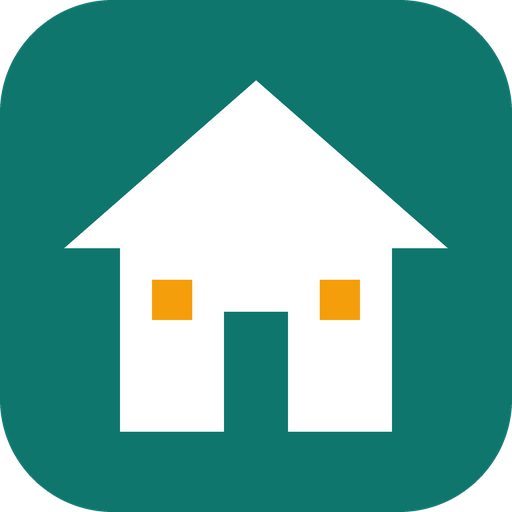
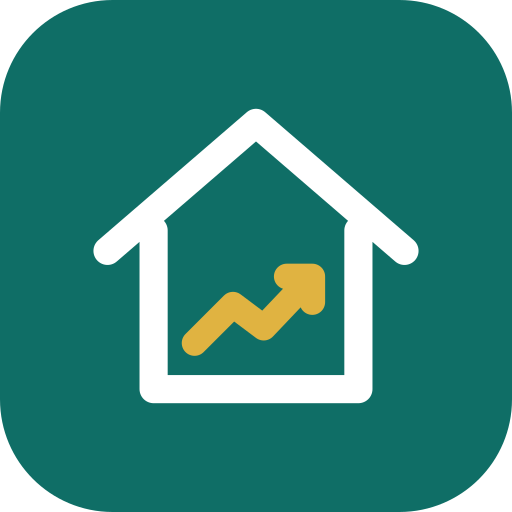
介面改版 2：線條圖示與新 App 圖示
- 比照投資帳本：js/icons.js 打包用到的 Lucide 線條圖示（ISC，授權見 js/icons-LICENSE.txt），
  顯示時把 emoji 換成跟文字同色的 SVG；原始文字、匯出檔不變
- 新增房子、鑰匙、手拿錢幣、溫度計、新芽、行政區定位等房屋試算用到的圖示
- 新 App 圖示（墨青線條）：192、512、maskable 512、Apple 180，另加 SVG 網頁小圖示
- service worker 快取換新名稱，讓舊圖示清掉

Claude-Session: https://claude.ai/code/session_015aXraEf23WDfRmWqChLCr5

Changed region(s): [[0.125, 0.1562, 0.875, 0.8438]]

diff --git a/js/icons.js b/js/icons.js
@@ -1,0 +1,70 @@
+// 房屋試算｜線條圖示（介面改版 PR 2，比照投資帳本）
+// 圖示來自 Lucide（https://lucide.dev，ISC 授權，授權全文見 js/icons-LICENSE.txt）；tick 是投資帳本自己畫的對帳勾。
+// 只打包用到的圖示，離線也能用。ic('名字') 回傳行內 SVG；跟文字同色（currentColor）。
+// 程式和 HTML 裡照樣寫 emoji，顯示時才換成線條圖示：原始文字、匯出檔都不變。
+// 不處理：textarea、pre、code、script、style、可編輯區、.noic；下拉選單（option）放不了圖示，只拿掉 emoji。
+// 狀態類（勾、禁止、警告…）在一般文字裡會帶顏色；放在本來就有顏色的地方（例如提示框）就跟著那個顏色。
+const ICP={
+"ban": "<circle cx=\"12\" cy=\"12\" r=\"10\"/><path d=\"M4.929 4.929 19.07 19.071\"/>",
+"banknote": "<rect width=\"20\" height=\"12\" x=\"2\" y=\"6\" rx=\"2\"/><circle cx=\"12\" cy=\"12\" r=\"2\"/><path d=\"M6 12h.01M18 12h.01\"/>",
+"book-open": "<path d=\"M12 5v16\"/><path d=\"M20.001 19A2 2 0 0022 17V5a2 2 0 00-1.999-2L16 3.002A5 5 0 0012 5a5 5 0 00-4-2H4a2 2 0 00-2 2v12a2 2 0 001.999 2H8a5 5 0 014 2 5 5 0 014-2z\"/>",
+"calendar": "<path d=\"M8 2v3\"/><path d=\"M16 2v3\"/><rect x=\"3\" y=\"3\" width=\"18\" height=\"18\" rx=\"2\"/><path d=\"M3 9h18\"/>",
+"calendar-range": "<rect x=\"3\" y=\"3\" width=\"18\" height=\"18\" rx=\"2\"/><path d=\"M16 2v3\"/><path d=\"M3 9h18\"/><path d=\"M8 2v3\"/><path d=\"M17 13h-6\"/><path d=\"M13 17H7\"/><path d=\"M7 13h.01\"/><path d=\"M17 17h.01\"/>",
+"chart-line": "<path d=\"M3 3v16a2 2 0 0 0 2 2h16\"/><path d=\"m19 9-5 5-4-4-3 3\"/>",
+"clipboard-list": "<rect width=\"8\" height=\"4\" x=\"8\" y=\"2\" rx=\"1\" ry=\"1\"/><path d=\"M16 4h2a2 2 0 0 1 2 2v14a2 2 0 0 1-2 2H6a2 2 0 0 1-2-2V6a2 2 0 0 1 2-2h2\"/><path d=\"M12 11h4\"/><path d=\"M12 16h4\"/><path d=\"M8 11h.01\"/><path d=\"M8 16h.01\"/>",
+"coins": "<path d=\"M13.744 17.736a6 6 0 1 1-7.48-7.48\"/><path d=\"M15 6h1v4\"/><path d=\"m6.134 14.768.866-.5 2 3.464\"/><circle cx=\"16\" cy=\"8\" r=\"6\"/>",
+"download": "<path d=\"M12 15V3\"/><path d=\"M21 15v4a2 2 0 0 1-2 2H5a2 2 0 0 1-2-2v-4\"/><path d=\"m7 10 5 5 5-5\"/>",
+"hand-coins": "<path d=\"M11 15h2a2 2 0 1 0 0-4h-3c-.6 0-1.1.2-1.4.6L3 17\"/><path d=\"m7 21 1.6-1.4c.3-.4.8-.6 1.4-.6h4c1.1 0 2.1-.4 2.8-1.2l4.6-4.4a2 2 0 0 0-2.75-2.91l-4.2 3.9\"/><path d=\"m2 16 6 6\"/><circle cx=\"16\" cy=\"9\" r=\"2.9\"/><circle cx=\"6\" cy=\"5\" r=\"3\"/>",
+"hourglass": "<path d=\"M5 22h14\"/><path d=\"M5 2h14\"/><path d=\"M17 22v-4.172a2 2 0 0 0-.586-1.414L12 12l-4.414 4.414A2 2 0 0 0 7 17.828V22\"/><path d=\"M7 2v4.172a2 2 0 0 0 .586 1.414L12 12l4.414-4.414A2 2 0 0 0 17 6.172V2\"/>",
+"house": "<path d=\"M15 21v-8a1 1 0 0 0-1-1h-4a1 1 0 0 0-1 1v8\"/><path d=\"M3 10a2 2 0 0 1 .709-1.528l7-6a2 2 0 0 1 2.582 0l7 6A2 2 0 0 1 21 10v9a2 2 0 0 1-2 2H5a2 2 0 0 1-2-2z\"/>",
+"info": "<circle cx=\"12\" cy=\"12\" r=\"10\"/><path d=\"M12 16v-4\"/><path d=\"M12 8h.01\"/>",
+"key-round": "<path d=\"M2.586 17.414A2 2 0 0 0 2 18.828V21a1 1 0 0 0 1 1h3a1 1 0 0 0 1-1v-1a1 1 0 0 1 1-1h1a1 1 0 0 0 1-1v-1a1 1 0 0 1 1-1h.172a2 2 0 0 0 1.414-.586l.814-.814a6.5 6.5 0 1 0-4-4z\"/><circle cx=\"16.5\" cy=\"7.5\" r=\".5\" fill=\"currentColor\"/>",
+"landmark": "<path d=\"M10 18v-7\"/><path d=\"M11.119 2.205a2 2 0 0 1 1.762 0l7.84 3.846A.5.5 0 0 1 20.5 7h-17a.5.5 0 0 1-.22-.949z\"/><path d=\"M14 18v-7\"/><path d=\"M18 18v-7\"/><path d=\"M3 22h18\"/><path d=\"M6 18v-7\"/>",
+"library": "<path d=\"m16 6 4 14\"/><path d=\"M12 6v14\"/><path d=\"M8 8v12\"/><path d=\"M4 4v16\"/>",
+"map-pin-house": "<path d=\"M15 22a1 1 0 0 1-1-1v-4a1 1 0 0 1 .445-.832l3-2a1 1 0 0 1 1.11 0l3 2A1 1 0 0 1 22 17v4a1 1 0 0 1-1 1z\"/><path d=\"M18 10a8 8 0 0 0-16 0c0 4.993 5.539 10.193 7.399 11.799a1 1 0 0 0 .601.2\"/><path d=\"M18 22v-3\"/><circle cx=\"10\" cy=\"10\" r=\"3\"/>",
+"notebook-pen": "<path d=\"M13.4 2H6a2 2 0 0 0-2 2v16a2 2 0 0 0 2 2h12a2 2 0 0 0 2-2v-7.4\"/><path d=\"M2 6h4\"/><path d=\"M2 10h4\"/><path d=\"M2 14h4\"/><path d=\"M2 18h4\"/><path d=\"M21.378 5.626a1 1 0 1 0-3.004-3.004l-5.01 5.012a2 2 0 0 0-.506.854l-.837 2.87a.5.5 0 0 0 .62.62l2.87-.837a2 2 0 0 0 .854-.506z\"/>",
+"pin": "<path d=\"M12 17v5\"/><path d=\"M9 10.76a2 2 0 0 1-1.11 1.79l-1.78.9A2 2 0 0 0 5 15.24V16a1 1 0 0 0 1 1h12a1 1 0 0 0 1-1v-.76a2 2 0 0 0-1.11-1.79l-1.78-.9A2 2 0 0 1 15 10.76V7a1 1 0 0 1 1-1 2 2 0 0 0 0-4H8a2 2 0 0 0 0 4 1 1 0 0 1 1 1z\"/>",
+"receipt": "<path d=\"M12 17V7\"/><path d=\"M16 8h-6a2 2 0 0 0 0 4h4a2 2 0 0 1 0 4H8\"/><path d=\"M4 3a1 1 0 0 1 1-1 1.3 1.3 0 0 1 .7.2l.933.6a1.3 1.3 0 0 0 1.4 0l.934-.6a1.3 1.3 0 0 1 1.4 0l.933.6a1.3 1.3 0 0 0 1.4 0l.933-.6a1.3 1.3 0 0 1 1.4 0l.934.6a1.3 1.3 0 0 0 1.4 0l.933-.6A1.3 1.3 0 0 1 19 2a1 1 0 0 1 1 1v18a1 1 0 0 1-1 1 1.3 1.3 0 0 1-.7-.2l-.933-.6a1.3 1.3 0 0 0-1.4 0l-.934.6a1.3 1.3 0 0 1-1.4 0l-.933-.6a1.3 1.3 0 0 0-1.4 0l-.933.6a1.3 1.3 0 0 1-1.4 0l-.934-.6a1.3 1.3 0 0 0-1.4 0l-.933.6a1.3 1.3 0 0 1-.7.2 1 1 0 0 1-1-1z\"/>",
+"repeat": "<path d=\"m17 2 4 4-4 4\"/><path d=\"M3 11v-1a4 4 0 0 1 4-4h14\"/><path d=\"m7 22-4-4 4-4\"/><path d=\"M21 13v1a4 4 0 0 1-4 4H3\"/>",
+"rocket": "<path d=\"M12 15v5s3.03-.55 4-2c1.08-1.62 0-5 0-5\"/><path d=\"M4.5 16.5c-1.5 1.26-2 5-2 5s3.74-.5 5-2c.71-.84.7-2.13-.09-2.91a2.18 2.18 0 0 0-2.91-.09\"/><path d=\"M9 12a22 22 0 0 1 2-3.95A12.88 12.88 0 0 1 22 2c0 2.72-.78 7.5-6 11a22.4 22.4 0 0 1-4 2z\"/><path d=\"M9 12H4s.55-3.03 2-4c1.62-1.08 5 .05 5 .05\"/>",
+"rotate-ccw": "<path d=\"M3 12a9 9 0 1 0 9-9 9.75 9.75 0 0 0-6.74 2.74L3 8\"/><path d=\"M3 3v5h5\"/>",
+"ruler": "<path d=\"M21.3 15.3a2.4 2.4 0 0 1 0 3.4l-2.6 2.6a2.4 2.4 0 0 1-3.4 0L2.7 8.7a2.41 2.41 0 0 1 0-3.4l2.6-2.6a2.41 2.41 0 0 1 3.4 0Z\"/><path d=\"m14.5 12.5 2-2\"/><path d=\"m11.5 9.5 2-2\"/><path d=\"m8.5 6.5 2-2\"/><path d=\"m17.5 15.5 2-2\"/>",
+"save": "<path d=\"M15.2 3a2 2 0 0 1 1.4.6l3.8 3.8a2 2 0 0 1 .6 1.4V19a2 2 0 0 1-2 2H5a2 2 0 0 1-2-2V5a2 2 0 0 1 2-2z\"/><path d=\"M17 21v-7a1 1 0 0 0-1-1H8a1 1 0 0 0-1 1v7\"/><path d=\"M7 3v4a1 1 0 0 0 1 1h7\"/>",
+"settings": "<path d=\"M9.671 4.136a2.34 2.34 0 0 1 4.659 0 2.34 2.34 0 0 0 3.319 1.915 2.34 2.34 0 0 1 2.33 4.033 2.34 2.34 0 0 0 0 3.831 2.34 2.34 0 0 1-2.33 4.033 2.34 2.34 0 0 0-3.319 1.915 2.34 2.34 0 0 1-4.659 0 2.34 2.34 0 0 0-3.32-1.915 2.34 2.34 0 0 1-2.33-4.033 2.34 2.34 0 0 0 0-3.831A2.34 2.34 0 0 1 6.35 6.051a2.34 2.34 0 0 0 3.319-1.915\"/><circle cx=\"12\" cy=\"12\" r=\"3\"/>",
+"sprout": "<path d=\"M14 9.536V7a4 4 0 0 1 4-4h1.5a.5.5 0 0 1 .5.5V5a4 4 0 0 1-4 4 4 4 0 0 0-4 4c0 2 1 3 1 5a5 5 0 0 1-1 3\"/><path d=\"M4 9a5 5 0 0 1 8 4 5 5 0 0 1-8-4\"/><path d=\"M5 21h14\"/>",
+"tag": "<path d=\"M12.586 2.586A2 2 0 0 0 11.172 2H4a2 2 0 0 0-2 2v7.172a2 2 0 0 0 .586 1.414l8.704 8.704a2.426 2.426 0 0 0 3.42 0l6.58-6.58a2.426 2.426 0 0 0 0-3.42z\"/><circle cx=\"7.5\" cy=\"7.5\" r=\".5\" fill=\"currentColor\"/>",
+"thermometer": "<path d=\"M14 4v10.54a4 4 0 1 1-4 0V4a2 2 0 0 1 4 0Z\"/>",
+"tick": "<path d=\"M3.6 12.9c1.6.7 3.1 2.1 4.8 4.4 3.3-5.3 7-9.3 12-12.6\"/>",
+"trash": "<path d=\"M10 11v6\"/><path d=\"M14 11v6\"/><path d=\"M19 6v14a2 2 0 0 1-2 2H7a2 2 0 0 1-2-2V6\"/><path d=\"M3 6h18\"/><path d=\"M8 6V4a2 2 0 0 1 2-2h4a2 2 0 0 1 2 2v2\"/>",
+"triangle-exclamation-point": "<path d=\"m21.73 18-8-14a2 2 0 0 0-3.48 0l-8 14A2 2 0 0 0 4 21h16a2 2 0 0 0 1.73-3\"/><path d=\"M12 9v4\"/><path d=\"M12 17h.01\"/>",
+"upload": "<path d=\"M12 3v12\"/><path d=\"m17 8-5-5-5 5\"/><path d=\"M21 15v4a2 2 0 0 1-2 2H5a2 2 0 0 1-2-2v-4\"/>",
+"x": "<path d=\"M18 6 6 18\"/><path d=\"m6 6 12 12\"/>"
+};
+function ic(n,c){const p=ICP[n];if(!p)return'';return`<svg class="i${n=='tick'?' i-tick':''}${c?' '+c:''}" viewBox="0 0 24 24" fill="none" stroke="currentColor" stroke-width="${n=='tick'?2.2:1.75}" stroke-linecap="round" stroke-linejoin="round" aria-hidden="true">${p}</svg>`}
+const EMI={'✅':['tick','ok'],'✓':['tick','ok'],'⚠':['triangle-exclamation-point','wn'],'⏳':['hourglass','mut'],'🚫':['ban','bad'],'⛔':['ban','bad'],'❌':['x','wn'],'🏠':['house'],'🔑':['key-round'],'💸':['hand-coins'],'📅':['calendar'],'⚙':['settings'],'💰':['coins'],'📌':['pin'],'🔁':['repeat'],'⬆':['upload'],'⬇':['download'],'↺':['rotate-ccw'],'📖':['book-open'],'📋':['clipboard-list'],'🏘':['map-pin-house'],'💾':['save'],'📈':['chart-line'],'📝':['notebook-pen'],'🧾':['receipt'],'🗓':['calendar-range'],'🚀':['rocket'],'📐':['ruler'],'📚':['library'],'✕':['x'],'🗑':['trash'],'🏦':['landmark'],'💵':['banknote'],'🌡':['thermometer'],'ℹ':['info'],'🏷':['tag'],'🌱':['sprout']};
+const EMI_RE=new RegExp('\\p{Regional_Indicator}{2}\\s?|(?:'+Object.keys(EMI).map(k=>k.replace(/[.*+?^${}()|[\]\\]/g,'\\$&')).join('|')+')\\uFE0F?','gu');
+// 整個畫面都換（含使用說明、ⓘ 說明小視窗）
+const EMI_ROOTS='body';
+const EMI_SKIP='script,style,textarea,pre,code,[contenteditable],.noic';
+let EMI_TX=null;
+function emiHtml(m,rest,par){const k=m.replace(//g,'');if(/\p{Regional_Indicator}/u.test(k))return'';const d=EMI[k];if(!d)return null;
+ let n=d[0];if(typeof n=='function')n=n(rest);if(n=='→')return'→';
+ // 狀態色：父元素是一般文字顏色才上色，否則跟著父元素
+ let c=d[1]||'';if(c&&par){try{if(!EMI_TX)EMI_TX=getComputedStyle(document.body).color;if(getComputedStyle(par).color!=EMI_TX)c=''}catch(e){}}
+ const cl=c?'i-'+c:'';
+ return n=='dot'?`<span class="idot ${cl}" data-e="${k}" aria-hidden="true"></span>`:ic(n,cl).replace('<svg ',`<svg data-e="${k}" `)}
+function emiNode(t){const s=t.nodeValue;if(!s)return;EMI_RE.lastIndex=0;if(!EMI_RE.test(s))return;const par=t.parentElement;if(!par||par.closest(EMI_SKIP))return;
+ if(par.closest('option,select')){t.nodeValue=s.replace(EMI_RE,m=>{const k=m.replace(//g,'');return EMI[k]||/\p{Regional_Indicator}/u.test(k)?'':m}).replace(/^\s+/,'');return}
+ let h='',last=0,any=0;EMI_RE.lastIndex=0;let m;const esc_=x=>x.replace(/&/g,'&amp;').replace(/</g,'&lt;').replace(/>/g,'&gt;');
+ while((m=EMI_RE.exec(s))){const r=emiHtml(m[0],s.slice(m.index+m[0].length),par);if(r==null)continue;h+=esc_(s.slice(last,m.index))+r;last=m.index+m[0].length;any=1}
+ if(!any)return;h+=esc_(s.slice(last));
+ // 父元素是 flex／grid 時包成一個 span，避免圖示和文字被拆成兩格
+ try{if(/flex|grid/.test(getComputedStyle(par).display))h=`<span>${h}</span>`}catch(e){}
+const tp=document.createElement('template');tp.innerHTML=h;t.replaceWith(tp.content)}
+function emiWalk(root){if(!root)return;if(root.nodeType==3){emiNode(root);return}if(root.nodeType!=1)return;
+ const w=document.createTreeWalker(root,NodeFilter.SHOW_TEXT),L=[];let n;while((n=w.nextNode()))L.push(n);L.forEach(emiNode)}
+function emiIn(n){const e=n.nodeType==1?n:n.parentElement;return!!(e&&e.closest(EMI_ROOTS))}
+function emiStart(){document.querySelectorAll(EMI_ROOTS).forEach(emiWalk);
+ new MutationObserver(R=>{for(const r of R){if(r.type=='characterData'){if(emiIn(r.target))emiNode(r.target);continue}
+  for(const n of r.addedNodes){if(n.nodeType==1&&n.matches&&n.matches(EMI_ROOTS))emiWalk(n);else if(emiIn(n))emiWalk(n)}}}).observe(document.body,{childList:true,subtree:true,characterData:true})}
+if(document.readyState=='loading')document.addEventListener('DOMContentLoaded',emiStart);else emiStart();

diff --git a/index.html b/index.html
@@ -1,5 +1,5 @@
 <!DOCTYPE html>
-<html lang="zh-TW"><head><meta charset="UTF-8"><meta name="viewport" content="width=device-width,initial-scale=1"><meta name="theme-color" content="#f3f5f4"><script>/* 主題先套上，避免閃一下：記在這台裝置（hcth），沒選過就跟手機設定 */try{var t=localStorage.getItem("hcth");if(t!="dark"&&t!="light")t=matchMedia("(prefers-color-scheme: dark)").matches?"dark":"light";document.documentElement.dataset.theme=t;if(t=="dark")document.querySelector("meta[name=theme-color]").content="#0c1211"}catch(e){}</script><link rel="manifest" href="manifest.webmanifest"><link rel="icon" href="icons/icon-192.png"><link rel="apple-touch-icon" href="icons/apple-touch-icon.png"><meta name="apple-mobile-web-app-capable" content="yes"><meta name="mobile-web-app-capable" content="yes"><meta name="apple-mobile-web-app-title" content="房屋試算">
+<html lang="zh-TW"><head><meta charset="UTF-8"><meta name="viewport" content="width=device-width,initial-scale=1"><meta name="theme-color" content="#f3f5f4"><script>/* 主題先套上，避免閃一下：記在這台裝置（hcth），沒選過就跟手機設定 */try{var t=localStorage.getItem("hcth");if(t!="dark"&&t!="light")t=matchMedia("(prefers-color-scheme: dark)").matches?"dark":"light";document.documentElement.dataset.theme=t;if(t=="dark")document.querySelector("meta[name=theme-color]").content="#0c1211"}catch(e){}</script><link rel="manifest" href="manifest.webmanifest"><link rel="icon" type="image/svg+xml" href="icons/icon.svg"><link rel="icon" type="image/png" href="icons/icon-192.png"><link rel="apple-touch-icon" href="icons/apple-touch-icon.png"><meta name="apple-mobile-web-app-capable" content="yes"><meta name="mobile-web-app-capable" content="yes"><meta name="apple-mobile-web-app-title" content="房屋試算">
 <title>房屋試算｜房貸・出租・出售</title>
 <style>
 /* 介面改版 PR 1：墨青配色（比照投資帳本）。顏色都用變數，亮色／暗色兩組（data-theme）。
@@ -30,6 +30,11 @@
 --b45:#4a2622;--b35:#46301a;--b20:#3b3416;--b15:#173a35;
 --shd:rgba(0,0,0,.35);--ovl:rgba(0,0,0,.6)}
 b,strong,th{font-weight:600}
+/* 線條圖示（js/icons.js，Lucide ISC）：顯示時把 emoji 換成跟文字同色的 SVG */
+.i{display:inline-block;width:1.15em;height:1.15em;vertical-align:-.22em;flex:none}.i-tick{width:1.2em;height:1.2em}
+.i-ok{color:var(--ok)}.i-bad{color:var(--bad)}.i-wn{color:var(--warn)}.i-mut{color:var(--mut)}.i-dn{color:var(--dn)}
+summary .i,h2 .i,.tabs .i{color:var(--pri)}.tabs button.on .i{color:inherit}h2 .i{width:1.05em;height:1.05em}
+#pinB .i,#gearB .i{width:16px;height:16px;vertical-align:-3px}
 table,.c b,.wfv,.rbv,#cvi,.cvi{font-variant-numeric:tabular-nums}
 *{box-sizing:border-box;font-family:-apple-system,"Segoe UI","Noto Sans TC",sans-serif}
 body{margin:0 auto;padding:10px;background:var(--bg);color:var(--tx);font-size:13px;max-width:780px}
@@ -266,18 +271,19 @@ input.bad,input:invalid{border-color:var(--bad);background:var(--badbg)}
 <button class="pri" style="margin-top:8px" onclick="closeGd()">我知道了</button></div></div>
 <div id="toast"></div>
 
-<script src="js/theme.js?v=202611230907"></script>
-<script src="js/tip.js?v=202611230907"></script>
-<script src="js/policy.js?v=202611230907"></script>
-<script src="js/state.js?v=202611230907"></script>
-<script src="js/fields.js?v=202611230907"></script>
-<script src="js/engine.js?v=202611230907"></script>
-<script src="js/charts.js?v=202611230907"></script>
-<script src="js/ui-core.js?v=202611230907"></script>
-<script src="js/ui-loan.js?v=202611230907"></script>
-<script src="js/ui-rent.js?v=202611230907"></script>
-<script src="js/ui-market.js?v=202611230907"></script>
-<script src="js/ui-sale.js?v=202611230907"></script>
-<script src="js/ui-chart.js?v=202611230907"></script>
-<script src="js/main.js?v=202611230907"></script>
+<script src="js/theme.js?v=202611230909"></script>
+<script src="js/icons.js?v=202611230909"></script>
+<script src="js/tip.js?v=202611230909"></script>
+<script src="js/policy.js?v=202611230909"></script>
+<script src="js/state.js?v=202611230909"></script>
+<script src="js/fields.js?v=202611230909"></script>
+<script src="js/engine.js?v=202611230909"></script>
+<script src="js/charts.js?v=202611230909"></script>
+<script src="js/ui-core.js?v=202611230909"></script>
+<script src="js/ui-loan.js?v=202611230909"></script>
+<script src="js/ui-rent.js?v=202611230909"></script>
+<script src="js/ui-market.js?v=202611230909"></script>
+<script src="js/ui-sale.js?v=202611230909"></script>
+<script src="js/ui-chart.js?v=202611230909"></script>
+<script src="js/main.js?v=202611230909"></script>
 </body></html>

diff --git a/sw.js b/sw.js
@@ -1,5 +1,5 @@
 // 加入主畫面用：網路優先，離線時用上次存的版本（只處理本網站的檔案）
-const C='hc-app-v1';
+const C='hc-app-v2';
 self.addEventListener('install',()=>self.skipWaiting());
 self.addEventListener('activate',e=>e.waitUntil(caches.keys().then(K=>Promise.all(K.filter(k=>k!=C).map(k=>caches.delete(k)))).then(()=>self.clients.claim())));
 self.addEventListener('fetch',e=>{const r=e.request;if(r.method!='GET'||new URL(r.url).origin!=location.origin)return;
